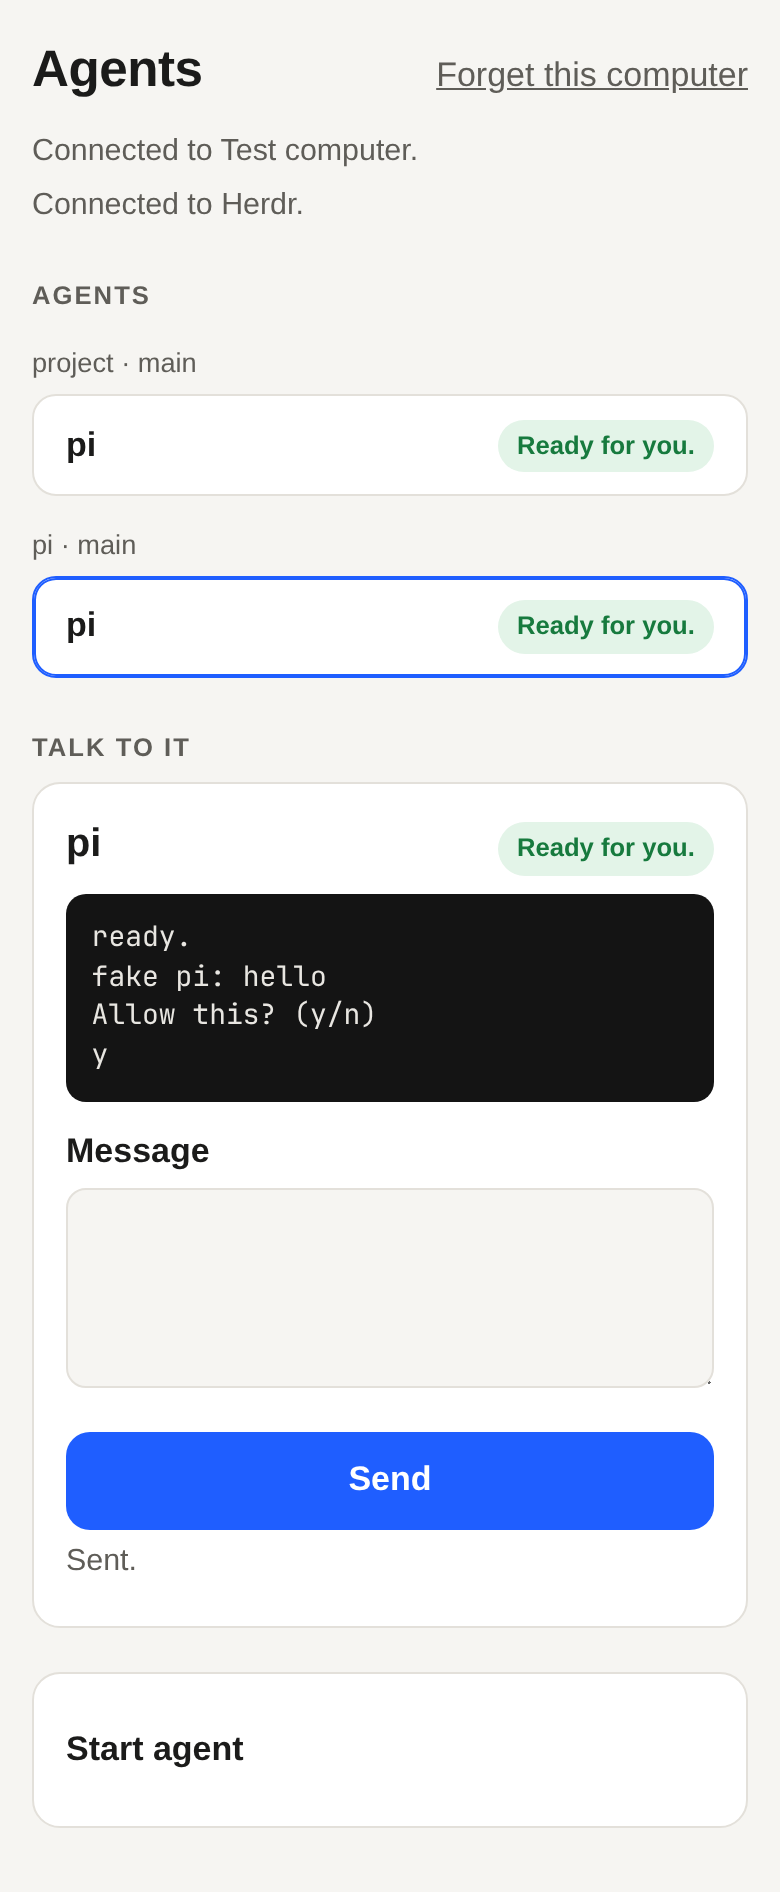
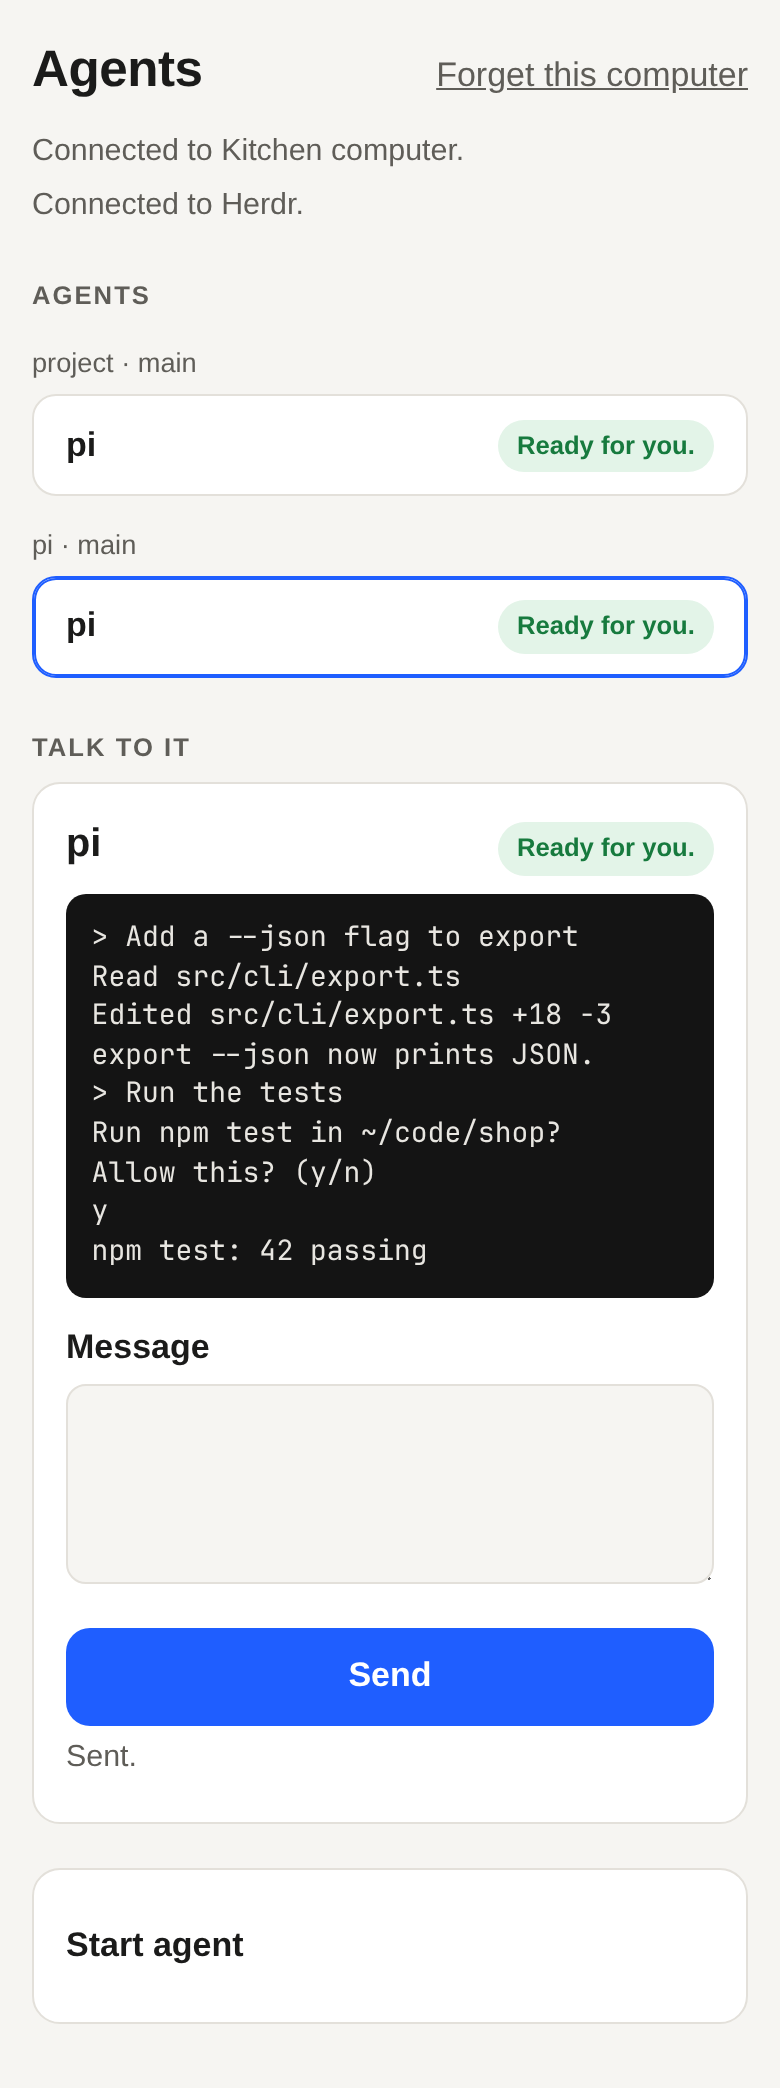
docs: recapture the README images without the stand-ins' test wording
The captures showed the stand-in OpenAI's code MOCK-10001, the stand-in Herdr's 'fake pi: hello', 'Test computer'
and BYOKIT_EXAMPLE_FAKE=1 on the host's command line. The pictures now come from the same app code with
capture-only options in test and example code (no library change): pwa.test.ts takes the PWA shots when
BYOKIT_EXAMPLE_SHOTS is set, swapping only the pictured device code for one in OpenAI's format; the herdr-kit e2e,
in the same mode, names the computer Kitchen computer and runs the fake Herdr behind capture-herdr.ts, a socket
proxy that maps the fake's lines onto a plausible agent transcript. hero.png is recomposed from the new shots;
alt text and captions follow the new images.

diff --git a/examples/herdr-kit/e2e.test.ts b/examples/herdr-kit/e2e.test.ts
@@ -3,7 +3,8 @@
 // this test ever runs), and a phone-sized headless Chromium going pair → start agent → prompt → receipt → a question
 // → answer y → ready again. Every status a person reads must be the kit's own sentence from its words.json.
 // Third-party dependencies are linked from the repo's installed tree, so the run stays offline.
-// BYOKIT_EXAMPLE_SHOTS=<folder> keeps a screenshot of each step.
+// BYOKIT_EXAMPLE_SHOTS=<folder> keeps a screenshot of each step, for the README: the computer gets a real name and the
+// agent a plausible session (capture-herdr.ts), so the pictures show what a person sees rather than the fake's words.
 import { test, after } from 'node:test';
 import assert from 'node:assert/strict';
 import { spawn, execFileSync } from 'node:child_process';
@@ -42,7 +43,14 @@ execFileSync('npm', ['run', 'build:web'], { cwd: app, stdio: 'ignore', env: { ..
 const kitDir = join(modules, '@byokit/herdr/dist');
 const WORDS = JSON.parse(readFileSync(join(kitDir, 'words.json'), 'utf8')) as Record<string, string>;
 const { writeBinShim } = await import(pathToFileURL(join(kitDir, 'testing/index.js')).href) as typeof import('@byokit/herdr/testing');
-const fakeHerdr = writeBinShim({ dir: join(dir, 'fake'), socketPath: join(app, '.state/herdr/herdr.sock') });
+const shots = process.env.BYOKIT_EXAMPLE_SHOTS;
+const capture = shots ? await import(pathToFileURL(join(app, 'capture-herdr.ts')).href) as typeof import('./capture-herdr.ts') : undefined;
+const fakeHerdr = capture ? (mkdirSync(join(dir, 'fake')), capture.writeCaptureShim(join(dir, 'fake')))
+  : writeBinShim({ dir: join(dir, 'fake'), socketPath: join(app, '.state/herdr/herdr.sock') });
+const NAME = capture ? 'Kitchen computer' : 'Test computer';
+const PROMPT = capture?.PROMPT ?? 'hello';
+const REPLY = capture?.REPLY ?? 'fake pi: hello';
+const QUESTION_PROMPT = capture?.QUESTION_PROMPT ?? 'ask permission';
 
 // Playwright's own Chromium (CI installs it); else the system's, for a machine without Playwright's download.
 const executablePath = existsSync(chromium.executablePath()) ? undefined : process.env.BYOKIT_CHROME ?? '/usr/bin/chromium';
@@ -52,7 +60,7 @@ const port = await new Promise<number>((resolve) => {
   const s = createServer().listen(0, '127.0.0.1', () => { const { port } = s.address() as { port: number }; s.close(() => resolve(port)); });
 });
 const host = trackChild(spawn(process.execPath, ['host.ts', '--herdr', fakeHerdr, '--via', 'lan', '--port', String(port),
-  '--name', 'Test computer', '--folder', dir], { cwd: app, env: { ...process.env, BYOKIT_EXAMPLE_FAKE: '1' }, stdio: ['pipe', 'pipe', 'inherit'] }));
+  '--name', NAME, '--folder', dir], { cwd: app, env: { ...process.env, BYOKIT_EXAMPLE_FAKE: '1' }, stdio: ['pipe', 'pipe', 'inherit'] }));
 after(async () => { await browser.close(); host.kill('SIGTERM'); });
 let said = '';
 host.stdout.on('data', (b: Buffer) => { said += b.toString(); });
@@ -65,7 +73,6 @@ const heard = async (pattern: RegExp, from = 0) => {
 };
 const CODE = /type ([2-9A-Z]{4}-[2-9A-Z]{4}-[2-9A-Z]{4})/;
 
-const shots = process.env.BYOKIT_EXAMPLE_SHOTS;
 const shot = async (page: Page, name: string) => { if (shots) await page.screenshot({ path: join(shots, `${name}.png`), fullPage: true }); };
 const text = async (page: Page, selector: string, want: string) => {
   const found = page.locator(selector).filter({ hasText: want }).first();
@@ -96,7 +103,7 @@ test('pair a phone, start an agent, prompt it, answer its question, all in plain
   await shot(page, '2-compare');
   host.stdin.write('y\n');
 
-  await text(page, '#link', 'Connected to Test computer.');
+  await text(page, '#link', `Connected to ${NAME}.`);
   await text(page, '#herdr', WORDS['herdr.ready']);
   await text(page, '#tree .agent', `pi${WORDS['agent.idle']}`);
 
@@ -111,16 +118,16 @@ test('pair a phone, start an agent, prompt it, answer its question, all in plain
   await text(page, '#agent-status', WORDS['agent.idle']);
 
   // A prompt comes back with Herdr's receipt, and the agent's words show up on its screen.
-  await page.fill('#prompt', 'hello');
+  await page.fill('#prompt', PROMPT);
   await page.click('#send');
   await text(page, '#receipt', 'Sent.');
   assert.match((await page.locator('#receipt').getAttribute('data-revision'))!, /^\d+$/);
-  await page.locator('#screen').filter({ hasText: 'fake pi: hello' }).waitFor();
+  await page.locator('#screen').filter({ hasText: REPLY }).waitFor();
   await text(page, '#agent-status', WORDS['agent.idle']);
   await shot(page, '3-agent');
 
   // A question from the agent: it waits for an answer, and y answers it.
-  await page.fill('#prompt', 'ask permission');
+  await page.fill('#prompt', QUESTION_PROMPT);
   await page.click('#send');
   const question = page.locator('#blocked .question');
   await question.waitFor();
@@ -153,9 +160,9 @@ test('a page over plain http from the home network keeps its pairing too', async
   await page.click('#pair-go');
   await heard(/\? \(y\/n\) $/, from);
   host.stdin.write('y\n');
-  await text(page, '#link', 'Connected to Test computer.');
+  await text(page, '#link', `Connected to ${NAME}.`);
   await page.reload();
-  await text(page, '#link', 'Connected to Test computer.');
+  await text(page, '#link', `Connected to ${NAME}.`);
   await text(page, '#herdr', WORDS['herdr.ready']);
   assert.deepEqual(errors, []);
   await context.close();

diff --git a/examples/herdr-kit/capture-herdr.ts b/examples/herdr-kit/capture-herdr.ts
@@ -1,0 +1,70 @@
+// For the README pictures only (e2e.test.ts with BYOKIT_EXAMPLE_SHOTS): the kit's fake Herdr behind a socket that
+// makes its agent's screen read like a real session. The fake answers a prompt with `fake pi: <prompt>` and asks
+// its question on `ask permission`; this maps the pictured prompts onto those and the fake's lines onto a plausible
+// transcript. Nothing else changes: every other request and answer passes through untouched.
+import { chmodSync, writeFileSync } from 'node:fs';
+import { createConnection, createServer } from 'node:net';
+import { dirname, join } from 'node:path';
+import { fakeHerdrBinMain, startFakeHerdr } from '@byokit/herdr/testing';
+
+export const PROMPT = 'Add a --json flag to export';
+export const QUESTION_PROMPT = 'Run the tests';
+const ASKS: Record<string, string> = { [QUESTION_PROMPT]: 'ask permission' };
+const SCREEN: Record<string, string[]> = {
+  'ready.': [],
+  [`fake pi: ${PROMPT}`]: [`> ${PROMPT}`, 'Read src/cli/export.ts', 'Edited src/cli/export.ts +18 -3',
+    'export --json now prints JSON.'],
+  'Allow this? (y/n)': [`> ${QUESTION_PROMPT}`, 'Run npm test in ~/code/shop?', 'Allow this? (y/n)'],
+  y: ['y', 'npm test: 42 passing'],
+};
+export const REPLY = SCREEN[`fake pi: ${PROMPT}`][3];
+
+/** A Herdr program for the kit: this file, run by the current Node. */
+export function writeCaptureShim(dir: string): string {
+  const bin = join(dir, 'herdr');
+  writeFileSync(bin, `#!${process.execPath}\nimport(${JSON.stringify(import.meta.url)}).then((m) => m.main(process.argv.slice(2)));\n`);
+  chmodSync(bin, 0o700);
+  return bin;
+}
+
+export async function main(argv: string[]): Promise<void> {
+  if (argv[0] !== 'server') return fakeHerdrBinMain(argv);
+  const outer = process.env.HERDR_SOCKET_PATH!;
+  const inner = join(dirname(outer), 'fake.sock');
+  const fake = await startFakeHerdr({ dir: dirname(outer), socketPath: inner });
+  const proxy = createServer((client) => {
+    const upstream = createConnection(inner);
+    let head = '';
+    let rewrite = false;
+    const fromClient = (chunk: Buffer) => {
+      head += chunk.toString('utf8');
+      const nl = head.indexOf('\n');
+      if (nl < 0) return;
+      client.off('data', fromClient);
+      client.pipe(upstream);
+      const request = JSON.parse(head.slice(0, nl)) as { method: string; params: Record<string, unknown> };
+      if (request.method === 'agent.prompt') request.params.text = ASKS[request.params.text as string] ?? request.params.text;
+      rewrite = request.method === 'pane.read' && request.params.source !== 'detection';
+      upstream.write(`${JSON.stringify(request)}\n${head.slice(nl + 1)}`);
+      if (!rewrite) upstream.pipe(client);
+    };
+    client.on('data', fromClient);
+    let answer = '';
+    upstream.on('data', (chunk: Buffer) => {
+      if (!rewrite) return;
+      answer += chunk.toString('utf8');
+      if (!answer.includes('\n')) return;
+      const message = JSON.parse(answer);
+      const read = message.result?.read;
+      if (read) read.text = (read.text as string).split('\n').flatMap((line) => SCREEN[line] ?? [line]).join('\n');
+      client.end(`${JSON.stringify(message)}\n`);
+    });
+    upstream.on('close', () => client.end());
+    client.on('error', () => upstream.destroy());
+    upstream.on('error', () => client.destroy());
+  });
+  await new Promise<void>((resolve) => proxy.listen(outer, resolve));
+  const stop = () => { proxy.close(); void fake.stop().then(() => process.exit(0)); };
+  process.on('SIGTERM', stop);
+  process.on('SIGINT', stop);
+}

diff --git a/examples/pwa/pwa.test.ts b/examples/pwa/pwa.test.ts
@@ -1,9 +1,11 @@
 // "Sign in with ChatGPT" in a real browser (headless Chromium through Playwright), end to end against the stand-in
 // OpenAI on another origin, as a person does it: the code on the page, typed on the provider's page in another tab,
 // kept in IndexedDB across a reload, refreshed, signed out (revoked there). Plus what makes it an installable PWA.
+// BYOKIT_EXAMPLE_SHOTS=<folder> takes the README pictures, showing the code in OpenAI's own format, not the stand-in's.
 import { test, after } from 'node:test';
 import assert from 'node:assert/strict';
 import { existsSync } from 'node:fs';
+import { join } from 'node:path';
 import { chromium } from 'playwright';
 import { build } from 'esbuild';
 import { mockOpenAI } from '../../packages/accounts/src/testing/index.ts';
@@ -101,5 +103,38 @@ test('an installable PWA: its manifest and a service worker that keeps the page 
   await context.setOffline(true);
   await page.reload();
   assert.equal(await page.title(), 'byokit example');
+  await context.close();
+});
+
+test('the README pictures: signed out, the code, connected', { skip: !process.env.BYOKIT_EXAMPLE_SHOTS }, async () => {
+  const open = async () => {
+    const context = await browser.newContext({ viewport: { width: 390, height: 450 }, deviceScaleFactor: 2 });
+    const page = await context.newPage();
+    await page.goto(site.url);
+    await page.locator('#status').filter({ hasText: "ChatGPT isn't signed in yet." }).waitFor();
+    return { context, page, shot: (name: string) => page.screenshot({ path: join(process.env.BYOKIT_EXAMPLE_SHOTS!, `${name}.png`) }) };
+  };
+  const first = await open();
+  await first.shot('pwa-1-signed-out');
+  // Only the pictured code is swapped, and that sign-in stays waiting: it is never finished.
+  await first.page.route(`${openai.base}/api/accounts/deviceauth/usercode`, async (route) =>
+    route.fulfill({ json: { ...await (await route.fetch()).json(), user_code: 'WDJB-MJHT' } }));
+  await first.page.route(`${openai.base}/api/accounts/deviceauth/token`, (route) =>
+    route.fulfill({ status: 403, json: { error: { code: 'deviceauth_authorization_pending' } }, headers: { 'access-control-allow-origin': '*' } }));
+  await first.page.click('#signin');
+  await first.page.locator('#code').filter({ hasText: 'WDJB-MJHT' }).waitFor();
+  await first.shot('pwa-2-code');
+  await first.context.close();
+
+  const { context, page, shot } = await open();
+  const status = page.locator('#status');
+  await page.click('#signin');
+  const code = (await page.locator('#code').filter({ hasText: /-/ }).textContent())!;
+  const [provider] = await Promise.all([context.waitForEvent('page'), page.click('#open')]);
+  await provider.fill('#code', code);
+  await provider.click('#continue');
+  await provider.close();
+  await status.filter({ hasText: 'ChatGPT is connected.' }).waitFor();
+  await shot('pwa-3-connected');
   await context.close();
 });

diff --git a/packages/herdr/README.md b/packages/herdr/README.md
@@ -12,16 +12,16 @@ Workspaces, tabs, panes, coding agents and blocked-approval answers, from a Node
 never sees a credential.</p>
 
 <p align="center">
-  <img src="https://raw.githubusercontent.com/umeranjum17/byokit/main/examples/herdr-kit/docs/3-agent.png" width="240" alt="Phone page titled Agents, Connected to Test computer and Connected to Herdr: two pi agents marked Ready for you, and under Talk to it the agent's screen reading 'ready.' and 'fake pi: hello' above a Message box, a Send button and Sent." />
+  <img src="https://raw.githubusercontent.com/umeranjum17/byokit/main/examples/herdr-kit/docs/3-agent.png" width="240" alt="Phone page titled Agents, Connected to Kitchen computer and Connected to Herdr: two pi agents marked Ready for you, and under Talk to it the agent's screen reading '> Add a --json flag to export', 'Read src/cli/export.ts', 'Edited src/cli/export.ts +18 -3' and 'export --json now prints JSON.' above a Message box, a Send button and Sent." />
   <img src="https://raw.githubusercontent.com/umeranjum17/byokit/main/examples/herdr-kit/docs/4-question.png" width="240" alt="Phone page with Questions for you at the top: pi, Waiting for your answer., the question 'Allow this? (y/n)' and buttons Enter, y, n and Esc; below, the second pi agent marked Waiting for your answer." />
-  <img src="https://raw.githubusercontent.com/umeranjum17/byokit/main/examples/herdr-kit/docs/5-answered.png" width="240" alt="Phone page after the answer: no Questions for you section, both pi agents marked Ready for you, and the agent's screen ending in 'Allow this? (y/n)' and 'y'" />
+  <img src="https://raw.githubusercontent.com/umeranjum17/byokit/main/examples/herdr-kit/docs/5-answered.png" width="240" alt="Phone page after the answer: no Questions for you section, both pi agents marked Ready for you, and the agent's screen ending in 'Allow this? (y/n)', 'y' and 'npm test: 42 passing'" />
 </p>
 <p align="center"><sub>The <a href="../../examples/herdr-kit">herdr-kit example</a>'s phone page: an agent at work, its
 question, answered. Captured by the example's e2e in a phone-sized headless Chromium, against the kit's stand-in
 Herdr.</sub></p>
 
 <p align="center">
-  <img src="https://raw.githubusercontent.com/umeranjum17/byokit/main/docs/images/herdr-kit-host.png" width="420" alt="Terminal running BYOKIT_EXAMPLE_FAKE=1 npm start -- --via lan --name 'Kitchen computer': a QR code, then 'On the phone, scan this, or open http://192.168.1.144:7310/ and type A937-EYXC-EBCZ', 'Codes last five minutes. Press Enter for new ones.', 'Connecting to Herdr…' and 'Connected to Herdr.'" />
+  <img src="https://raw.githubusercontent.com/umeranjum17/byokit/main/docs/images/herdr-kit-host.png" width="420" alt="Terminal running npm start -- --herdr &quot;$(command -v herdr)&quot; --via lan --name 'Kitchen computer': a QR code, then 'On the phone, scan this, or open http://192.168.1.144:7310/ and type K3J8-CJZ7-SE4R', 'Codes last five minutes. Press Enter for new ones.', 'Connecting to Herdr…' and 'Connected to Herdr.'" />
 </p>
 <p align="center"><sub>The same example's host terminal (<code>host.ts</code>), started with <code>BYOKIT_EXAMPLE_FAKE=1</code> so it runs the kit's stand-in Herdr.</sub></p>
 

diff --git a/packages/link/README.md b/packages/link/README.md
@@ -13,10 +13,10 @@ only its own key and a grant, and asks the host to do things. For apps that reac
 phone or browser.</p>
 
 <p align="center">
-  <img src="https://raw.githubusercontent.com/umeranjum17/byokit/main/docs/images/herdr-kit-host.png" width="420" alt="A terminal running BYOKIT_EXAMPLE_FAKE=1 npm start -- --via lan --name 'Kitchen computer', showing a large pairing QR code, then: On the phone, scan this, or open http://192.168.1.144:7310/ and type A937-EYXC-EBCZ. Codes last five minutes. Press Enter for new ones. Connecting to Herdr… Connected to Herdr. (stand-in Herdr)" />
+  <img src="https://raw.githubusercontent.com/umeranjum17/byokit/main/docs/images/herdr-kit-host.png" width="420" alt="A terminal running npm start -- --herdr &quot;$(command -v herdr)&quot; --via lan --name 'Kitchen computer', showing a large pairing QR code, then: On the phone, scan this, or open http://192.168.1.144:7310/ and type K3J8-CJZ7-SE4R. Codes last five minutes. Press Enter for new ones. Connecting to Herdr… Connected to Herdr. (stand-in Herdr)" />
   <img src="https://raw.githubusercontent.com/umeranjum17/byokit/main/examples/herdr-kit/docs/2-compare.png" width="240" alt="A phone page titled Agents, under Pair this phone: Check your computer shows these two words, then say yes there. The words are coast comet." />
 </p>
-<p align="center"><sub>Left: the host terminal of <a href="https://github.com/umeranjum17/byokit/tree/main/examples/herdr-kit">examples/herdr-kit</a> (<code>BYOKIT_EXAMPLE_FAKE=1 npm start -- --via lan --name 'Kitchen computer'</code>; <code>BYOKIT_EXAMPLE_FAKE=1</code> runs the kit's stand-in Herdr) showing the QR and the typed code. Right: the phone in the same example showing the two words to compare.</sub></p>
+<p align="center"><sub>Left: the host terminal of <a href="https://github.com/umeranjum17/byokit/tree/main/examples/herdr-kit">examples/herdr-kit</a> (<code>npm start -- --herdr "$(command -v herdr)" --via lan --name 'Kitchen computer'</code>, pictured against the kit's stand-in Herdr, <code>BYOKIT_EXAMPLE_FAKE=1</code>) showing the QR and the typed code. Right: the phone in the same example showing the two words to compare.</sub></p>
 
 Noise IK over WebSocket (`noise-handshake` + libsodium; frames sealed by `@noble/ciphers`), in Node, browsers/PWAs
 and React Native. The main entry has no listener, files or environment access: the app hands the host its sockets

diff --git a/README.md b/README.md
@@ -58,7 +58,7 @@ streams over one end-to-end encrypted link. Both screens show the same two words
 
 <p align="center">
   <img src="docs/images/herdr-kit-host.png" alt="A terminal running the Herdr kit example: a pairing QR code, then On the phone, scan this, or open http://192.168.1.144:7310/ and type a code, Codes last five minutes, Connected to Herdr" width="420" /><br/>
-  <sub>The host of <a href="examples/herdr-kit"><code>examples/herdr-kit</code></a> (<code>BYOKIT_EXAMPLE_FAKE=1 npm start -- --via lan --name 'Kitchen computer'</code>) against the kit's stand-in Herdr; the phone's side of the pairing, the two words, is the second screen at the top.</sub>
+  <sub>The host of <a href="examples/herdr-kit"><code>examples/herdr-kit</code></a> (<code>npm start -- --herdr "$(command -v herdr)" --via lan --name 'Kitchen computer'</code>), pictured against the kit's stand-in Herdr (<code>BYOKIT_EXAMPLE_FAKE=1</code>); the phone's side of the pairing, the two words, is the second screen at the top.</sub>
 </p>
 
 ### Drive the agents at home from the phone
@@ -67,7 +67,7 @@ streams over one end-to-end encrypted link. Both screens show the same two words
 to ask. Each agent keeps its own subscription sign-in; the kit never sees a credential.
 
 <p align="center">
-  <img src="examples/herdr-kit/docs/5-answered.png" alt="Answered with y: the question is gone, the agent's screen ends in y, and both pi agents are Ready for you again" width="240" /><br/>
+  <img src="examples/herdr-kit/docs/5-answered.png" alt="Answered with y: the question is gone, the agent's screen ends in y and npm test: 42 passing, and both pi agents are Ready for you again" width="240" /><br/>
   <sub>After answering the question in the last screen at the top: <a href="examples/herdr-kit"><code>examples/herdr-kit</code></a>'s end-to-end test in a phone-sized headless Chromium, against the kit's stand-in Herdr.</sub>
 </p>
 

diff --git a/packages/accounts/README.md b/packages/accounts/README.md
@@ -15,10 +15,10 @@ the platform's side (`package.json`'s `react-native` and `browser` conditions).<
 
 <p align="center">
   <img src="https://raw.githubusercontent.com/umeranjum17/byokit/main/docs/images/pwa-1-signed-out.png" width="240" alt="The page &quot;byokit in a browser&quot;, signed out: &quot;ChatGPT isn't signed in yet.&quot; above a Sign in with ChatGPT button" />
-  <img src="https://raw.githubusercontent.com/umeranjum17/byokit/main/docs/images/pwa-2-code.png" width="240" alt="The same page signing in: &quot;Signing in to ChatGPT…&quot;, &quot;On the ChatGPT page, type this code:&quot; MOCK-10001, an Open ChatGPT link and a Cancel button" />
+  <img src="https://raw.githubusercontent.com/umeranjum17/byokit/main/docs/images/pwa-2-code.png" width="240" alt="The same page signing in: &quot;Signing in to ChatGPT…&quot;, &quot;On the ChatGPT page, type this code:&quot; WDJB-MJHT, an Open ChatGPT link and a Cancel button" />
   <img src="https://raw.githubusercontent.com/umeranjum17/byokit/main/docs/images/pwa-3-connected.png" width="240" alt="The same page signed in: &quot;ChatGPT is connected.&quot;, sara@example.com, plus plan, with Check the sign-in and Sign out buttons" />
 </p>
-<p align="center"><sub><a href="../../examples/pwa"><code>examples/pwa</code></a> signing in by device code in headless Chromium (Playwright), against the kit's stand-in OpenAI (<code>mockOpenAI()</code>), not the real one: hence the code <code>MOCK-10001</code>.</sub></p>
+<p align="center"><sub><a href="../../examples/pwa"><code>examples/pwa</code></a> signing in by device code in headless Chromium (Playwright), against the kit's stand-in OpenAI (<code>mockOpenAI()</code>), not the real one; the pictured code is in OpenAI's format.</sub></p>
 
 ## Quickstart
 

diff --git a/packages/ui-core/README.md b/packages/ui-core/README.md
@@ -12,7 +12,7 @@ pairing sheet, the link's status and the route a phone takes home. Your app keep
 React hook is framework-free.</p>
 
 <p align="center">
-  <img src="https://raw.githubusercontent.com/umeranjum17/byokit/main/docs/images/pwa-2-code.png" width="240" alt="A phone-width page titled 'byokit in a browser' reading 'Signing in to ChatGPT…' and 'On the ChatGPT page, type this code:', the code MOCK-10001 in large letters, an 'Open ChatGPT' link and a Cancel button." />
+  <img src="https://raw.githubusercontent.com/umeranjum17/byokit/main/docs/images/pwa-2-code.png" width="240" alt="A phone-width page titled 'byokit in a browser' reading 'Signing in to ChatGPT…' and 'On the ChatGPT page, type this code:', the code WDJB-MJHT in large letters, an 'Open ChatGPT' link and a Cancel button." />
   <img src="https://raw.githubusercontent.com/umeranjum17/byokit/main/examples/herdr-kit/docs/2-compare.png" width="240" alt="A phone-width page titled 'Agents' with a 'Pair this phone' card reading 'Check your computer shows these two words, then say yes there.' above the words 'coast comet'." />
 </p>
 
